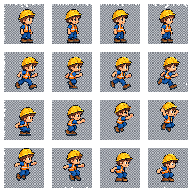
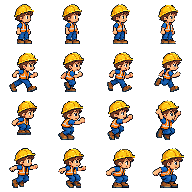
fix: remove checkerboard from Henry sprites (#56)

diff --git a/tests/sprite-processing.test.ts b/tests/sprite-processing.test.ts
@@ -1,0 +1,31 @@
+import { execFileSync } from 'node:child_process';
+import { expect, test } from 'vitest';
+
+test('atlas processing removes tinted checkerboard while preserving enclosed details and colored edges', () => {
+  const result = execFileSync('python3', ['-B', '-c', `
+import json
+from scripts.process_sprite_atlas import remove_background
+
+# Measured light/dark source-background colors, surrounding a dark outline
+# with pale reflective detail inside. The colored edge must remain intact.
+light = (185, 189, 197, 255)
+dark = (129, 133, 140, 255)
+outline = (19, 45, 54, 255)
+reflective = (221, 231, 211, 255)
+blue = (30, 110, 180, 255)
+pixels = [light, dark, light, dark, light,
+          dark, outline, outline, outline, dark,
+          light, outline, reflective, blue, light,
+          dark, outline, outline, outline, dark,
+          light, dark, light, dark, light]
+remove_background(5, 5, pixels)
+print(json.dumps(pixels))
+`], { encoding: 'utf8' });
+  const pixels = JSON.parse(result) as number[][];
+  for (const index of [0, 1, 2, 3, 4, 5, 9, 10, 14, 15, 19, 20, 21, 22, 23, 24]) {
+    expect(pixels[index][3]).toBe(0);
+  }
+  expect(pixels[6]).toEqual([19, 45, 54, 255]);
+  expect(pixels[12]).toEqual([221, 231, 211, 255]);
+  expect(pixels[13]).toEqual([30, 110, 180, 255]);
+});

diff --git a/tests/browser.spec.ts b/tests/browser.spec.ts
@@ -73,13 +73,18 @@ test('starter atlas contains real transparency and every frame stays within its 
       let opaque = 0;
       let clear = 0;
       let edge = 0;
+      let cornerBackground = 0;
       for (let y = 0; y < frame.height; y++) for (let x = 0; x < frame.width; x++) {
         const alpha = pixels[(y * frame.width + x) * 4 + 3];
         if (alpha === 0) clear++;
         else opaque++;
         if ((x === 0 || y === 0 || x === frame.width - 1 || y === frame.height - 1) && alpha) edge++;
+        // Inspect inside the normalization margin: a transparent cell border
+        // alone also passes for an opaque checkerboard rectangle (#42).
+        if (((x >= 4 && x < 8) || (x >= 40 && x < 44)) &&
+            ((y >= 4 && y < 8) || (y >= 40 && y < 44)) && alpha) cornerBackground++;
       }
-      return { opaque, clear, edge };
+      return { opaque, clear, edge, cornerBackground };
     });
   });
   expect(results).toHaveLength(16);
@@ -87,6 +92,7 @@ test('starter atlas contains real transparency and every frame stays within its 
     expect(result.opaque).toBeGreaterThan(150);
     expect(result.clear).toBeGreaterThan(500);
     expect(result.edge).toBe(0);
+    expect(result.cornerBackground).toBe(0);
   }
 });
 

diff --git a/scripts/process_sprite_atlas.py b/scripts/process_sprite_atlas.py
@@ -87,9 +87,11 @@ def write_png(path: Path, width: int, height: int, pixels: list[tuple[int, int, 
 
 def is_background(pixel: tuple[int, int, int, int]) -> bool:
     r, g, b, _ = pixel
-    # The generated checkerboard is neutral gray. Keep colored character pixels,
-    # while allowing connected neutral regions to cross its tile boundaries.
-    neutral_gray = max(r, g, b) - min(r, g, b) <= 10 and min(r, g, b) >= 95
+    # The source checkerboard is slightly blue-gray, not neutral: measured
+    # border pixels have RGB channel spreads up to 16. Leave some tolerance
+    # for its softened tile edges, while retaining the colored/dark outline.
+    # Only border-connected pixels are removed, preserving enclosed highlights.
+    neutral_gray = max(r, g, b) - min(r, g, b) <= 20 and min(r, g, b) >= 95
     warm_paper = max(r, g, b) - min(r, g, b) <= 45 and min(r, g, b) >= 190
     return neutral_gray or warm_paper
 
